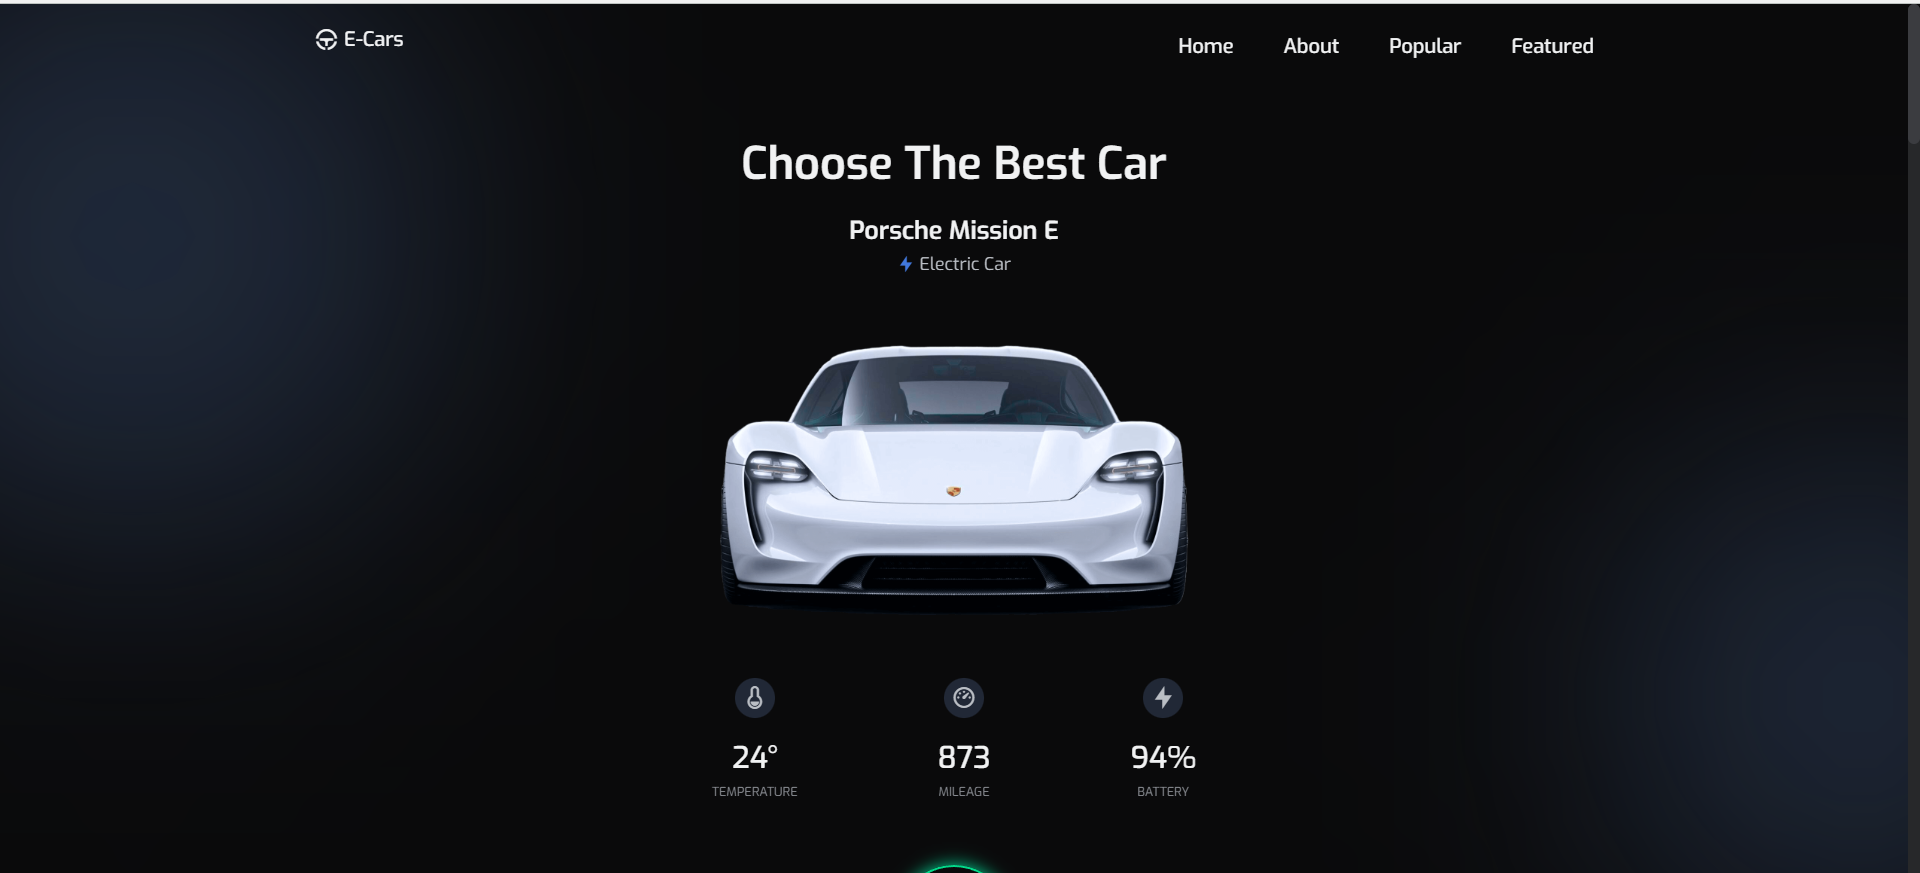
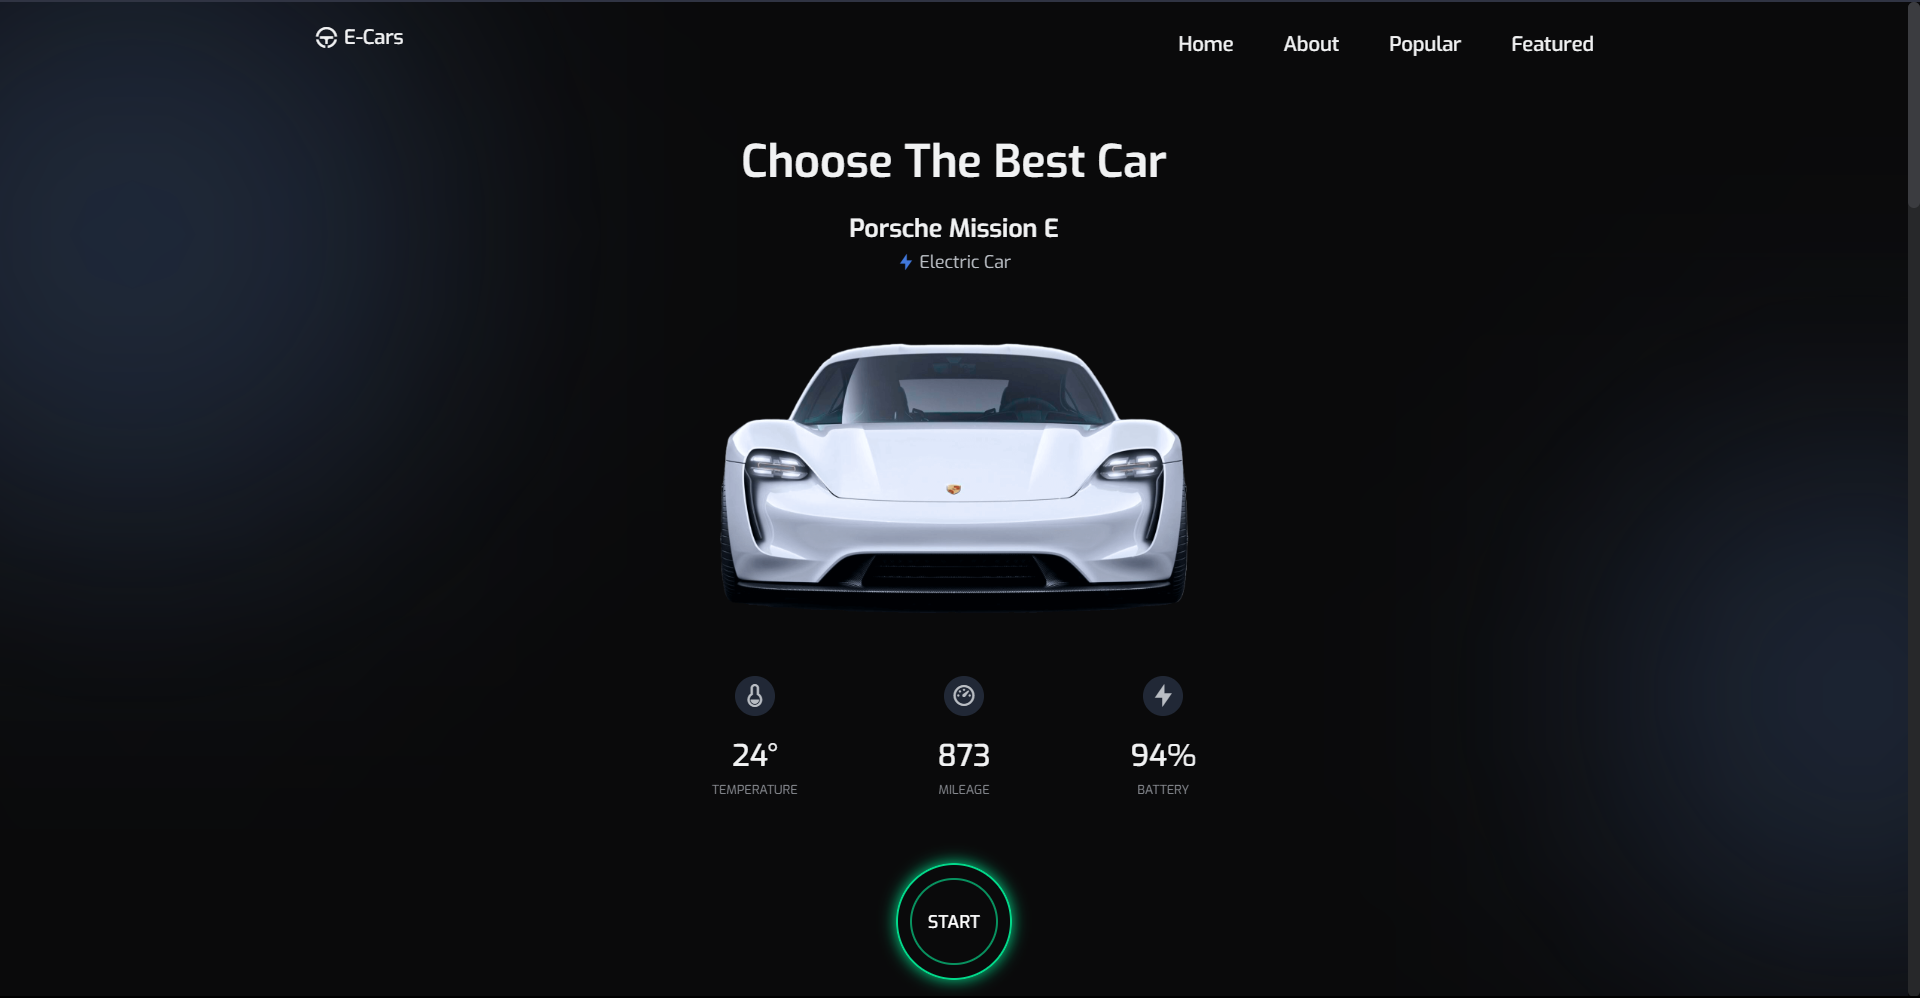
changed button shadow and font

diff --git a/src/index.css b/src/index.css
@@ -1,7 +1,8 @@
 /*
 ================ GOOGLE FONTS =============
 */
-@import url("https://fonts.googleapis.com/css2?family=Rubik:wght@400;500;600:700&display=swap");
+/* @import url("https://fonts.googleapis.com/css2?family=Rubik:wght@400;500;600:700&display=swap"); */
+@import url("https://fonts.googleapis.com/css2?family=Work+Sans:wght@400;500;600;700&display=swap");
 
 /*
 =============== varriable css ===========
@@ -18,7 +19,7 @@
 
   /* =========== Font and typography ========= */
   /* .5rem = px | 1rem = 16px... */
-  --body-font: "Rubik", sans-serif;
+  --body-font: "Work Sans", sans-serif;
   --h1-font-size: 2.25rem;
   --h2-font-size: 1.5rem;
   --h3-font-size: 1.25rem;
@@ -142,25 +143,14 @@ img {
 .btn {
   padding: 0.75rem 2rem;
   line-height: 1;
-  border-radius: 1.875rem;
-  box-shadow: 0 0 1px rgb(0 0 0 /0%);
-  border: 1px solid transparent;
   color: #ffffff;
   display: inline-block;
   background: var(--first-color);
   font-weight: var(--font-bold);
   z-index: 100;
+  transition: box-shadow ease-in-out 0.3s;
 }
 
-@keyframes button-push {
-  50% {
-    transform: scale(0.9);
-  }
-
-  100% {
-    transform: scale(1);
-  }
-}
 .btn:hover {
-  animation: button-push 0.3s linear 1;
+  box-shadow: -5px -5px 0px 0px rgba(53, 50, 82, 1);
 }

diff --git a/src/components/about/about.jsx b/src/components/about/about.jsx
@@ -42,7 +42,7 @@ const About = () => {
             <div className="skills-data">
               <div className="skills-title">
                 <h3 className="skills-name">Frontend</h3>
-                <span className="skills-number">60%</span>
+                <span className="skills-number">70%</span>
               </div>
 
               <div className="skills-bar">
@@ -64,7 +64,7 @@ const About = () => {
             <div className="skills-data">
               <div className="skills-title">
                 <h3 className="skills-name">Other tools</h3>
-                <span className="skills-number">45%</span>
+                <span className="skills-number">50%</span>
               </div>
 
               <div className="skills-bar">

diff --git a/src/App.js b/src/App.js
@@ -4,7 +4,7 @@ import Sidebar from "./components/sidebar/sidebar";
 import Home from "./components/home/home";
 import Projects from "./components/projects/projects";
 import About from "./components/about/about";
-import Resume from "./components/resume/resume";
+// import Resume from "./components/resume/resume";
 import Contact from "./components/contact/contact";
 
 const App = () => {
@@ -19,7 +19,7 @@ const App = () => {
       <main className="main">
         <Home />
         <About />
-        <Resume />
+        {/* <Resume /> */}
         <Projects />
         <Contact />
       </main>

diff --git a/src/components/projects/projects.css b/src/components/projects/projects.css
@@ -23,10 +23,13 @@
 .work-card {
   position: relative;
   overflow: hidden;
-  border-radius: var(--border-radius);
   box-shadow: var(--shadow);
+  transition: trasnform ease-in-out 0.3s;
 }
 
+.work-card:hover {
+  transform: skewX(-2deg);
+}
 .work-mask {
   background: #6c6ce5;
   position: absolute;
@@ -53,6 +56,11 @@
   transition: 0.3s;
 }
 
+.work-img {
+  object-fit: cover;
+  width: 100%;
+  height: auto;
+}
 .work-title {
   color: #ffffff;
   font-size: var(--h3-font-size);

diff --git a/src/components/sidebar/sidebar.jsx b/src/components/sidebar/sidebar.jsx
@@ -26,12 +26,12 @@ const Sidebar = () => {
                   <i className="icon-user-following"></i>
                 </a>
               </li>
-
+              {/* 
               <li className="nav-item">
                 <a href="#resume" className="nav-link">
                   <i className="icon-graduation"></i>
                 </a>
-              </li>
+              </li> */}
 
               <li className="nav-item">
                 <a href="#projects" className="nav-link">

diff --git a/src/components/home/home.jsx b/src/components/home/home.jsx
@@ -15,6 +15,8 @@ const Home = () => {
         <span className="home-education">A Developer.</span>
         <br />
         <span className="home-education">
+          I design and code beautifully simple things, and I love what I do.
+          <br />
           Let's build something great Together!
         </span>
 

diff --git a/src/components/about/about.css b/src/components/about/about.css
@@ -100,17 +100,17 @@
 }
 
 .frontend {
-  width: 60%;
+  width: 70%;
   background-color: rgb(255, 209, 92);
 }
 
 .backend {
-  width: 40%;
+  width: 45%;
   background-color: rgb(255, 76, 96);
 }
 
 .other-tools {
-  width: 45%;
+  width: 50%;
   background-color: rgb(108, 108, 299);
 }
 
